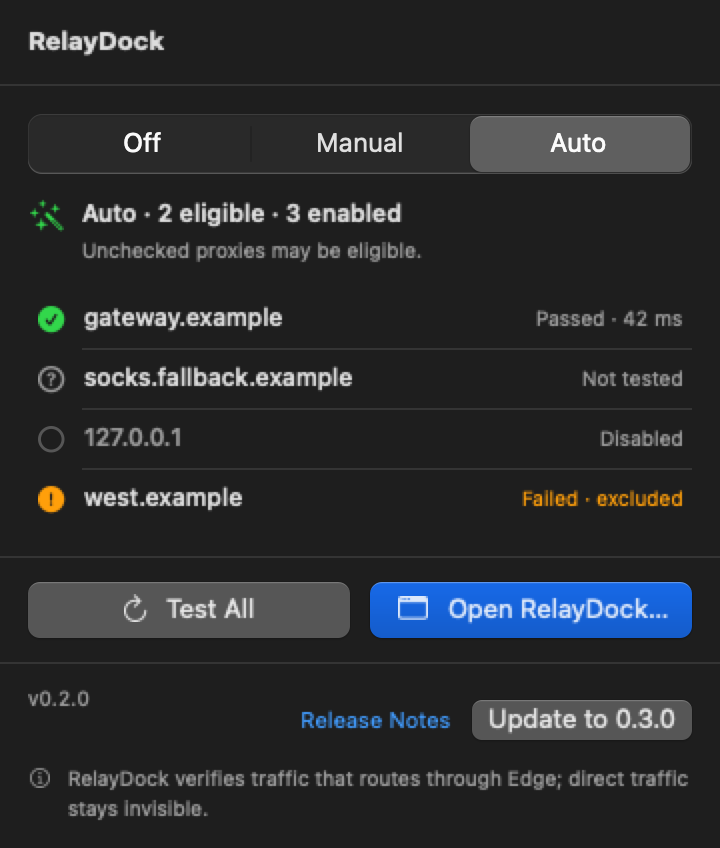
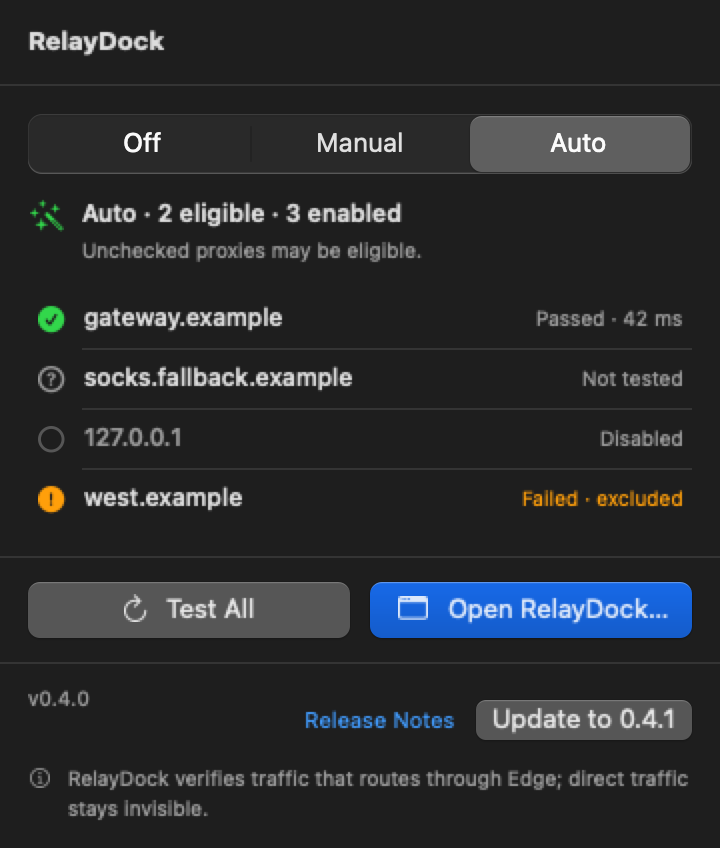
docs(readme): rebuild the landing page for discovery
Add CI, release, license, platform, and Swift badges; a demo GIF; a
Why RelayDock section; Requirements, Security & privacy, FAQ, and a
documentation index. Refresh the panel and update screenshots to the
v0.4.1 fixture and surface the real v0.4.0 -> 0.4.1 update pair.

Add SECURITY.md, CONTRIBUTING.md, issue templates, and a 1280x640
social preview source under brand/.

Changed region(s): [[0.3972, 0.8278, 0.9472, 0.8585]]

diff --git a/macOS/RelayDock/Tests/RelayDockAppTests/UIFixturesTests.swift b/macOS/RelayDock/Tests/RelayDockAppTests/UIFixturesTests.swift
@@ -520,20 +520,20 @@ private extension UIFixturesTests {
 
     /// A panel whose updater sits in a given phase, using the fixture seam so
     /// rendering never touches the network or the disk. The running build is
-    /// the released v0.2.0 so the offered release reads truthfully.
+    /// the released v0.4.0 so the offered release reads truthfully.
     static func updatePanelModel(_ phase: UpdateModel.Phase) throws -> ProxyAppModel {
-        let model = try makeModel(mode: .auto, proxies: mixedPool, currentVersion: SemanticVersion(tag: "0.2.0"))
+        let model = try makeModel(mode: .auto, proxies: mixedPool, currentVersion: SemanticVersion(tag: "0.4.0"))
         model.updates.applyPhaseForFixtures(phase)
         return model
     }
 
     static var fixtureRelease: UpdateRelease {
         UpdateRelease(
-            version: SemanticVersion(tag: "0.3.0")!,
-            tagName: "v0.3.0",
-            zipURL: URL(string: "https://github.com/nxhung1610/relaydock/releases/download/v0.3.0/RelayDock.app.zip")!,
-            checksumsURL: URL(string: "https://github.com/nxhung1610/relaydock/releases/download/v0.3.0/SHA256SUMS")!,
-            releasePageURL: URL(string: "https://github.com/nxhung1610/relaydock/releases/tag/v0.3.0")!
+            version: SemanticVersion(tag: "0.4.1")!,
+            tagName: "v0.4.1",
+            zipURL: URL(string: "https://github.com/nxhung1610/relaydock/releases/download/v0.4.1/RelayDock.app.zip")!,
+            checksumsURL: URL(string: "https://github.com/nxhung1610/relaydock/releases/download/v0.4.1/SHA256SUMS")!,
+            releasePageURL: URL(string: "https://github.com/nxhung1610/relaydock/releases/tag/v0.4.1")!
         )
     }
 
@@ -543,7 +543,7 @@ private extension UIFixturesTests {
         proxies: [ProxyEntry],
         tab: ProxyAppTab = .routing,
         directFallback: Bool = false,
-        currentVersion: SemanticVersion? = SemanticVersion(tag: "0.3.0"),
+        currentVersion: SemanticVersion? = SemanticVersion(tag: "0.4.1"),
         routingSetupState: RoutingSetupModel.State = .installed(
             .init(agentPlistInstalled: true, componentsOutOfDate: false)
         ),

diff --git a/README.md b/README.md
@@ -1,19 +1,40 @@
 # RelayDock for macOS
 
+**A native macOS menu-bar app and loopback daemon for a rotating, health-checked proxy pool — built for OpenCode.**
+
+[![CI](https://github.com/nxhung1610/relaydock/actions/workflows/ci.yml/badge.svg?branch=main)](https://github.com/nxhung1610/relaydock/actions/workflows/ci.yml)
+[![Release](https://img.shields.io/github/v/release/nxhung1610/relaydock?style=flat-square&label=release&color=2563eb)](https://github.com/nxhung1610/relaydock/releases/latest)
+[![License](https://img.shields.io/github/license/nxhung1610/relaydock?style=flat-square&color=38bdf8)](LICENSE)
+[![Platform](https://img.shields.io/badge/macOS%2014%2B-Apple%20Silicon-111827?style=flat-square)](README.md#requirements)
+[![Swift](https://img.shields.io/badge/Swift-6-F05138?style=flat-square&logo=swift&logoColor=white)](https://www.swift.org)
+
+[Install](#installation) · [Why RelayDock](#why-relaydock) · [Features](#features) · [How it works](#how-it-works) · [FAQ](#faq) · [Documentation](#documentation) · [License](#license)
+
 <picture>
   <source media="(prefers-color-scheme: dark)" srcset="docs/images/routing-dark.png">
   <img width="680" alt="The RelayDock window on its Routing tab: Auto policy selected, the Direct fallback switch, the Routing setup card, and RelayDock Edge's live accounting below." src="docs/images/routing-light.png">
 </picture>
 
-RelayDock is a compact native SwiftUI utility for managing a local proxy pool and its Off/Manual/Auto policy. It can import proxies, test enabled endpoints, and — with the optional PATH wrapper (see [PATH wrapper for OpenCode](#path-wrapper-for-opencode)) — show what **RelayDock Edge**, a small loopback daemon, is actually doing: the live upstream, rotation counters, and per-process tunnel attribution for everything routed through it. The app does **not** launch or restart OpenCode, and Edge verifies only the traffic that routes through it; direct traffic stays invisible.
+RelayDock is a native macOS menu-bar app plus a loopback daemon for a local proxy pool. Its optional PATH wrapper routes new OpenCode launches through **RelayDock Edge**, which resolves, rotates, and accounts for every tunnel — live upstream, failure counters, and per-process attribution. The app never launches or restarts OpenCode, and traffic that bypasses Edge stays invisible.
 
-**Platform:** macOS 14 or later. **Language:** Swift 6.
+## Demo
+
+![A short animated tour of RelayDock: the Routing tab with Auto policy, the Routing setup card showing RelayDock Edge installed with opencode resolving to the wrapper, and the menu bar panel with Edge's live status.](docs/images/demo.gif)
+
+*A 10-second tour: routing policy, the in-app wrapper setup, and the menu bar panel.*
+
+## Why RelayDock
+
+- **One stable endpoint.** Consumers point at `http://127.0.0.1:<port>` once; Edge resolves the selected entry, rotates when a dial fails, and retries without restarting terminals.
+- **Fail-closed by default.** Manual and Auto never silently switch to direct. The opt-in **Direct fallback** is labeled and counted, so a degraded route is never invisible.
+- **Accounting you can inspect.** Live upstream with expiry, rotation and failure counters, provider cooldown, and per-process tunnel attribution — in the app and at `GET /__relaydock/status`.
+- **Local-only.** No account and no analytics. Proxy credentials stay in `proxies.json` with permissions `0600`; the only outbound calls are health checks, the custom scripts you configure, and the GitHub release check.
 
 ## Installation
 
-RelayDock is distributed as an unsigned, unnotarized build, so macOS holds the first launch until you approve it once.
+### The app
 
-**The app** — import and test proxies, set the Off/Manual/Auto policy, and watch what Edge is doing:
+RelayDock is distributed as an unsigned, unnotarized build, so macOS holds the first launch until you approve it:
 
 1. Download `RelayDock.dmg` from the [latest release](https://github.com/nxhung1610/relaydock/releases/latest).
 2. Open the disk image and drag **RelayDock** into **Applications**.
@@ -24,7 +45,9 @@ RelayDock is distributed as an unsigned, unnotarized build, so macOS holds the f
 
 From then on, updates are in-app: a quiet daily check plus **Check for Updates** in every footer.
 
-**The PATH wrapper** — send new terminal `opencode` launches through RelayDock Edge — installs straight from the app:
+### The PATH wrapper
+
+Send new terminal `opencode` launches through RelayDock Edge — installs straight from the app:
 
 1. Open RelayDock, go to the **Routing** tab, and click **Install Routing** in the *Routing setup* card. The app installs the same components as the script below: both binaries into `~/.local/bin`, an `opencode` symlink to the launcher (an existing `opencode` that is not the symlink is never replaced), `edge.json` written on first install, and the launchd agent. Running it again updates the binaries in place.
 2. Make sure `~/.local/bin` is on `PATH` in new terminals. The card offers a copyable snippet (`export PATH="$HOME/.local/bin:$PATH"`) and a **Verify** button that runs your login shell — `zsh -lic 'command -v opencode'` — and reports what `opencode` resolves to. The app never edits `~/.zshrc` or `~/.zprofile`.
@@ -51,14 +74,14 @@ The app deliberately does not launch or restart OpenCode, and it cannot set prox
   <img width="680" alt="The Proxy Pool tab: four entries with health states, per-row toggles, and Test All / Import actions." src="docs/images/pool-list-light.png">
 </picture>
 
-**Menu bar.** The panel is the everyday surface: the saved mode, pool health at a glance, Edge's live line, quick actions, and the update footer.
+**Menu bar.** The panel is the everyday surface: the saved mode, Edge's live line, pool health at a glance, quick actions, and the update footer.
 
 <picture>
   <source media="(prefers-color-scheme: dark)" srcset="docs/images/panel-dark.png">
-  <img width="360" alt="The menu bar panel: Auto mode, the pool at a glance, Edge's live line, and the update footer." src="docs/images/panel-light.png">
+  <img width="360" alt="The RelayDock menu bar panel: Auto mode, Edge's live line, the proxy pool at a glance, and the v0.4.1 update footer." src="docs/images/panel-light.png">
 </picture>
 
-## What it provides
+## Features
 
 - Import and persist HTTP, HTTPS, SOCKS4, SOCKS4A, SOCKS5, and SOCKS5H proxy URLs — one at a time or in bulk.
 - Support named custom JavaScript entries that resolve to a proxy each time a consumer launches a child process.
@@ -68,7 +91,7 @@ The app deliberately does not launch or restart OpenCode, and it cannot set prox
 - Preserve existing proxy data at `~/Library/Application Support/com.nxhung.opencodezerolimit/proxies.json` with restrictive file permissions.
 - Provide `RelayDockCore` helpers for consumers that launch their own child process and need to select a route and construct proxy environment variables.
 - Optionally install a PATH wrapper — **Install Routing** in the app's *Routing setup* card, or `scripts/opencode-wrapper.sh install` from a source checkout — so new terminal `opencode` launches run through **RelayDock Edge**: a loopback daemon that performs script resolution live, rotates the upstream when a dial fails, keeps one provider cooldown budget, and persists one script cache. The installer also bootstraps a launchd KeepAlive agent (crash restarts within seconds; clean exits never respawn-loop; with an `edge.json` present the agent also declares launchd `Sockets`, so Edge starts on the first connection). Fail-closed on routing errors unless the pool's Direct fallback is enabled; Off mode never contacts Edge.
-- Show Edge's live status in the app: a RelayDock Edge section on the Routing tab and a compact line in the menu bar popover — mode, upstream with expiry, rotation/failure counters, provider cooldown, and recent tunnels attributed to the peer process that opened them. `Test All` delegates health checks to Edge (the owner of the script cache) and falls back in-process, labeled in the pool view, only when Edge is unreachable.
+- Show Edge's live status in the app: a RelayDock Edge section on the Routing tab and a compact line in the menu bar panel — mode, upstream with expiry, rotation/failure counters, provider cooldown, and recent tunnels attributed to the peer process that opened them. `Test All` delegates health checks to Edge (the owner of the script cache) and falls back in-process, labeled in the pool view, only when Edge is unreachable.
 
 A successful endpoint check only reports that the configured proxy endpoint passed that check. Neither a saved policy nor a successful check proves that OpenCode traffic used a proxy — only Edge's tunnel accounting speaks to real traffic, and it says nothing about traffic that bypasses Edge: **RelayDock verifies traffic that routes through Edge; direct traffic stays invisible.**
 
@@ -93,14 +116,66 @@ The app checks GitHub Releases quietly once a day, and every footer carries a ma
 
 <picture>
   <source media="(prefers-color-scheme: dark)" srcset="docs/images/panel-update-available-dark.png">
-  <img width="360" alt="The panel offering Update to 0.3.0 with a Release Notes link and the running v0.2.0 in the footer." src="docs/images/panel-update-available-light.png">
+  <img width="360" alt="The menu bar panel offering Update to 0.4.1 while running v0.4.0, with Release Notes and the update footer." src="docs/images/panel-update-available-light.png">
 </picture>
 
 Nothing is staged from a redirect or an unsigned source: the download must come from `github.com`, the archive's SHA-256 must match `SHA256SUMS` from the same release, and the staged bundle's identity, version, and code signature are verified before anything is swapped. Automatic checks stay silent; failures report their real reason. After **Restart to Update**, a helper waits for the app to quit, swaps the bundle with atomic renames (rolling back on failure), relaunches, and lets the next launch surface the outcome once. Design and trust model: [docs/APP-UPDATE-DESIGN.md](docs/APP-UPDATE-DESIGN.md).
 
-## Build, test, and run
+## Requirements
 
-Requires macOS 14+ and Swift 6:
+- **macOS 14 Sonoma or later**, Apple Silicon (arm64). Release builds are arm64-only.
+- **OpenCode is optional.** The app and proxy pool work without it; the PATH wrapper targets OpenCode.
+- **Swift 6** with Xcode command line tools for source builds.
+- No external runtime dependencies; `RelayDockCore` is a plain Swift package.
+
+## Security & privacy
+
+- **Loopback only.** Edge binds `127.0.0.1`; it does not expose a LAN listener or install a system proxy, VPN, or root helper.
+- **No authentication since v0.4.1.** The v0.4.0 token gate was removed: any local process can use the proxy, read `GET /__relaydock/status`, and request shutdown. Run RelayDock on a Mac you trust; the trade-off is recorded in the [system design](docs/PROXY-SYSTEM-DESIGN.md).
+- **Credentials stay local.** `proxies.json` is written with permissions `0600`, and the app masks credentials in resolved previews. Custom JavaScript can contain credentials and runs sandboxed in JavaScriptCore without file, process, or module access.
+- **No telemetry.** No account and no analytics. Network calls are proxy health checks, the custom scripts you configure, and the daily GitHub Releases check.
+- **Unsigned builds.** Verify release archives against `SHA256SUMS` before opening them, and prefer the latest release.
+
+Report vulnerabilities privately — see [SECURITY.md](SECURITY.md).
+
+## FAQ
+
+**Does RelayDock proxy all my traffic?**
+No. It is not a system proxy or a VPN. Only processes that opt in — the PATH wrapper or your own client pointed at Edge's loopback port — send traffic through Edge. Everything else stays direct and invisible to RelayDock.
+
+**Does it modify `~/.zshrc` or `~/.zprofile`?**
+No. The app shows a copyable `PATH` snippet and verifies with `zsh -lic 'command -v opencode'`. The wrapper install writes its binaries, the `opencode` symlink, `edge.json`, and a launchd plist — nothing else.
+
+**Which proxy protocols are supported?**
+HTTP, HTTPS, SOCKS4, SOCKS4A, SOCKS5, and SOCKS5H, plus custom JavaScript entries that resolve a proxy at launch time.
+
+**Does it work with Claude Code or other tools?**
+The shipped wrapper targets OpenCode. Any client that honors `HTTP_PROXY`/`HTTPS_PROXY`/`ALL_PROXY` can point at Edge's loopback endpoint, and `RelayDockCore` is available for custom launchers — but other tools are not tested or supported.
+
+**What happens when no proxy is usable?**
+Manual and Auto fail closed: the first request gets HTTP 502 with a reason. If **Direct fallback** is enabled, Edge connects directly, labels the tunnel `direct (fallback)`, and counts it; pinned listeners never fall back.
+
+**Why is the app unsigned?**
+RelayDock does not have an Apple Developer ID or notarization yet, so Gatekeeper requires explicit approval on first launch. Release assets include a `SHA256SUMS` file so you can verify what you downloaded.
+
+**Does RelayDock send telemetry?**
+No. There is no account, no analytics, and no usage reporting. The app checks GitHub Releases daily and otherwise talks only to the proxies and scripts you configure.
+
+**Does it support Intel Macs?**
+Release builds are arm64-only today. A source build uses the host architecture, but Intel is not a tested or supported configuration.
+
+## Documentation
+
+| Document | What it covers |
+| --- | --- |
+| [Proxy system design](docs/PROXY-SYSTEM-DESIGN.md) | Route selection, the policy matrix, Edge lifecycle, and failure handling |
+| [App update design](docs/APP-UPDATE-DESIGN.md) | Update feed, checksum and identity verification, atomic swap, and rollback |
+| [Proxy app wireframe](docs/PROXY-APP-WIREFRAME.md) | UI structure and interaction rules |
+| [Removed features](docs/REMOVED-FEATURES.md) | Historical scope decisions and former behavior |
+
+## Development
+
+Requires macOS 14+, Apple Silicon, and Swift 6:
 
 ```sh
 swift test --package-path macOS/RelayDock
@@ -114,14 +189,7 @@ scripts/tps-bench.sh              # A/B TPS: wrapped (via Edge) vs direct, read 
 
 The app is currently unsigned and not notarized for public distribution.
 
-## Continuous delivery
-
-`ci.yml` tests every pull request and push to `main` (test suite + app bundle validation).
-`cd.yml` packages the same commits into downloadable build artifacts: `RelayDock.dmg` (plus the
-bundled `RelayDock.app.zip`), the `relaydock-edge` and `relaydock-launch` binaries, and a
-`SHA256SUMS` file — as a workflow artifact (30 days) on every run. Pushing a `v*` tag additionally
-publishes the same files as a GitHub Release. Packaged builds are unsigned, exactly like local
-`scripts/build-*.sh` ones.
+`ci.yml` tests every pull request and push to `main` (test suite + app bundle validation). `cd.yml` packages the same commits into downloadable build artifacts: `RelayDock.dmg` (plus the bundled `RelayDock.app.zip`), the `relaydock-edge` and `relaydock-launch` binaries, and a `SHA256SUMS` file — as a workflow artifact (30 days) on every run. Pushing a `v*` tag additionally publishes the same files as a GitHub Release. Packaged builds are unsigned, exactly like local `scripts/build-*.sh` ones.
 
 ## Core library
 
@@ -216,6 +284,10 @@ relaydock-edge status
 ## Scope
 
 Account login, usage reporting, quota recovery, app settings, and OpenCode process management are not part of this proxy-only app. Former behavior is recorded in [docs/REMOVED-FEATURES.md](docs/REMOVED-FEATURES.md) for historical reference. The interface follows the [proxy app wireframe](docs/PROXY-APP-WIREFRAME.md).
+
+## Contributing
+
+Issues and pull requests are welcome. Before changing routing, Edge lifecycle, or the update path, read the [system design](docs/PROXY-SYSTEM-DESIGN.md) and keep the fail-closed guarantees intact. See [CONTRIBUTING.md](CONTRIBUTING.md) for build, test, and pull-request expectations.
 
 ## License
 

diff --git a/SECURITY.md b/SECURITY.md
@@ -1,0 +1,40 @@
+# Security policy
+
+## Supported versions
+
+Only the latest release receives security fixes. The current release is **0.4.1**.
+
+| Version | Supported |
+| --- | --- |
+| 0.4.x | Yes |
+| Earlier | No |
+
+## Reporting a vulnerability
+
+Please report privately through GitHub's **private vulnerability reporting**: open the repository's **Security** tab and choose **Report a vulnerability**. Do not open a public issue for a security problem.
+
+Include:
+
+- the RelayDock version and macOS version;
+- the affected component (app, RelayDock Edge, launcher/wrapper, updater);
+- reproduction steps and the impact you observed;
+- any relevant log lines with proxy URLs, credentials, and tokens redacted.
+
+You can expect an acknowledgement within 7 days. Please give a reasonable window for a fix before public disclosure.
+
+## Trust model
+
+RelayDock is a single-user, local-only tool:
+
+- **Loopback only.** RelayDock Edge binds `127.0.0.1`. It does not install a system proxy, VPN, root helper, or LAN listener.
+- **No authentication since v0.4.1.** The v0.4.0 token gate was removed. Any local process running as the same user can use the proxy, read `GET /__relaydock/status`, and request `POST /__relaydock/shutdown`. This is intentional: the loopback bind is the trust boundary. Run RelayDock on a Mac you trust.
+- **Local credentials.** Proxy URLs and custom JavaScript that contain credentials are stored in `<config>/proxies.json` with permissions `0600`. Custom scripts run in a sandboxed JavaScriptCore context without file, process, or module access.
+- **Unsigned builds.** Release builds are unsigned and unnotarized. Verify the downloaded archive against `SHA256SUMS` from the same release before opening it.
+- **No telemetry.** There is no account, analytics, or usage reporting. Outbound calls are limited to proxy health checks, the custom scripts you configure, and the daily GitHub Releases check.
+
+## Out of scope
+
+- A process already running as your user reading or reusing the loopback proxy (the documented v0.4.1 trade-off).
+- The behavior of third-party proxies or provider APIs you configure.
+- Gatekeeper warnings for the intentionally unsigned build, when the release checksum matches.
+- Vulnerabilities in OpenCode itself.

diff --git a/CONTRIBUTING.md b/CONTRIBUTING.md
@@ -1,0 +1,38 @@
+# Contributing to RelayDock
+
+Thanks for taking the time to improve RelayDock. This is a small, focused project; the notes below keep changes predictable.
+
+## Ground rules
+
+- **Keep routing fail-closed.** Manual and Auto must never silently fall back to direct. The opt-in Direct fallback stays labeled and counted, and pinned listeners never fall back.
+- **The app does not manage OpenCode.** It must not launch, restart, or kill OpenCode processes, and it must never edit `~/.zshrc`, `~/.zprofile`, or other shell profiles.
+- **No new runtime dependencies.** `RelayDockCore` is a plain Swift package built on Foundation and system frameworks.
+- **macOS 14+ and Swift 6.** Release builds are Apple Silicon (arm64); keep the code buildable from a clean checkout.
+- **English copy.** UI strings, documentation, code comments, and commits are written in English.
+- **Never commit credentials.** Use example hosts such as `gateway.example`; redact proxy URLs and tokens in logs and screenshots.
+
+## Development
+
+```sh
+swift test --package-path macOS/RelayDock
+scripts/build-macos-app.sh
+scripts/launcher-sandbox-test.sh
+```
+
+`scripts/launcher-sandbox-test.sh` is the end-to-end check for the wrapper, Edge, and installer: it uses a stub command, a fake `launchctl`, and local fake providers, so it needs no real OpenCode account or network.
+
+UI fixture images used in the README are rendered offscreen by `UIFixturesTests`:
+
+```sh
+RELAYDOCK_FIXTURE_DIR="$PWD/build/ui-captures/fixtures" \
+  swift test --package-path macOS/RelayDock --filter UIFixturesTests
+```
+
+## Pull requests
+
+- Keep a pull request to one concern; split unrelated refactors.
+- Add or update tests when behavior changes. Run the full Swift suite and the sandbox script before opening the PR.
+- Update the README or the relevant document in `docs/` when user-visible behavior, policy, or the update path changes.
+- CI must be green. The release workflow only publishes from `v*` tags; do not tag from a pull request.
+
+Security issues should follow [SECURITY.md](SECURITY.md) instead of a public issue or pull request.
